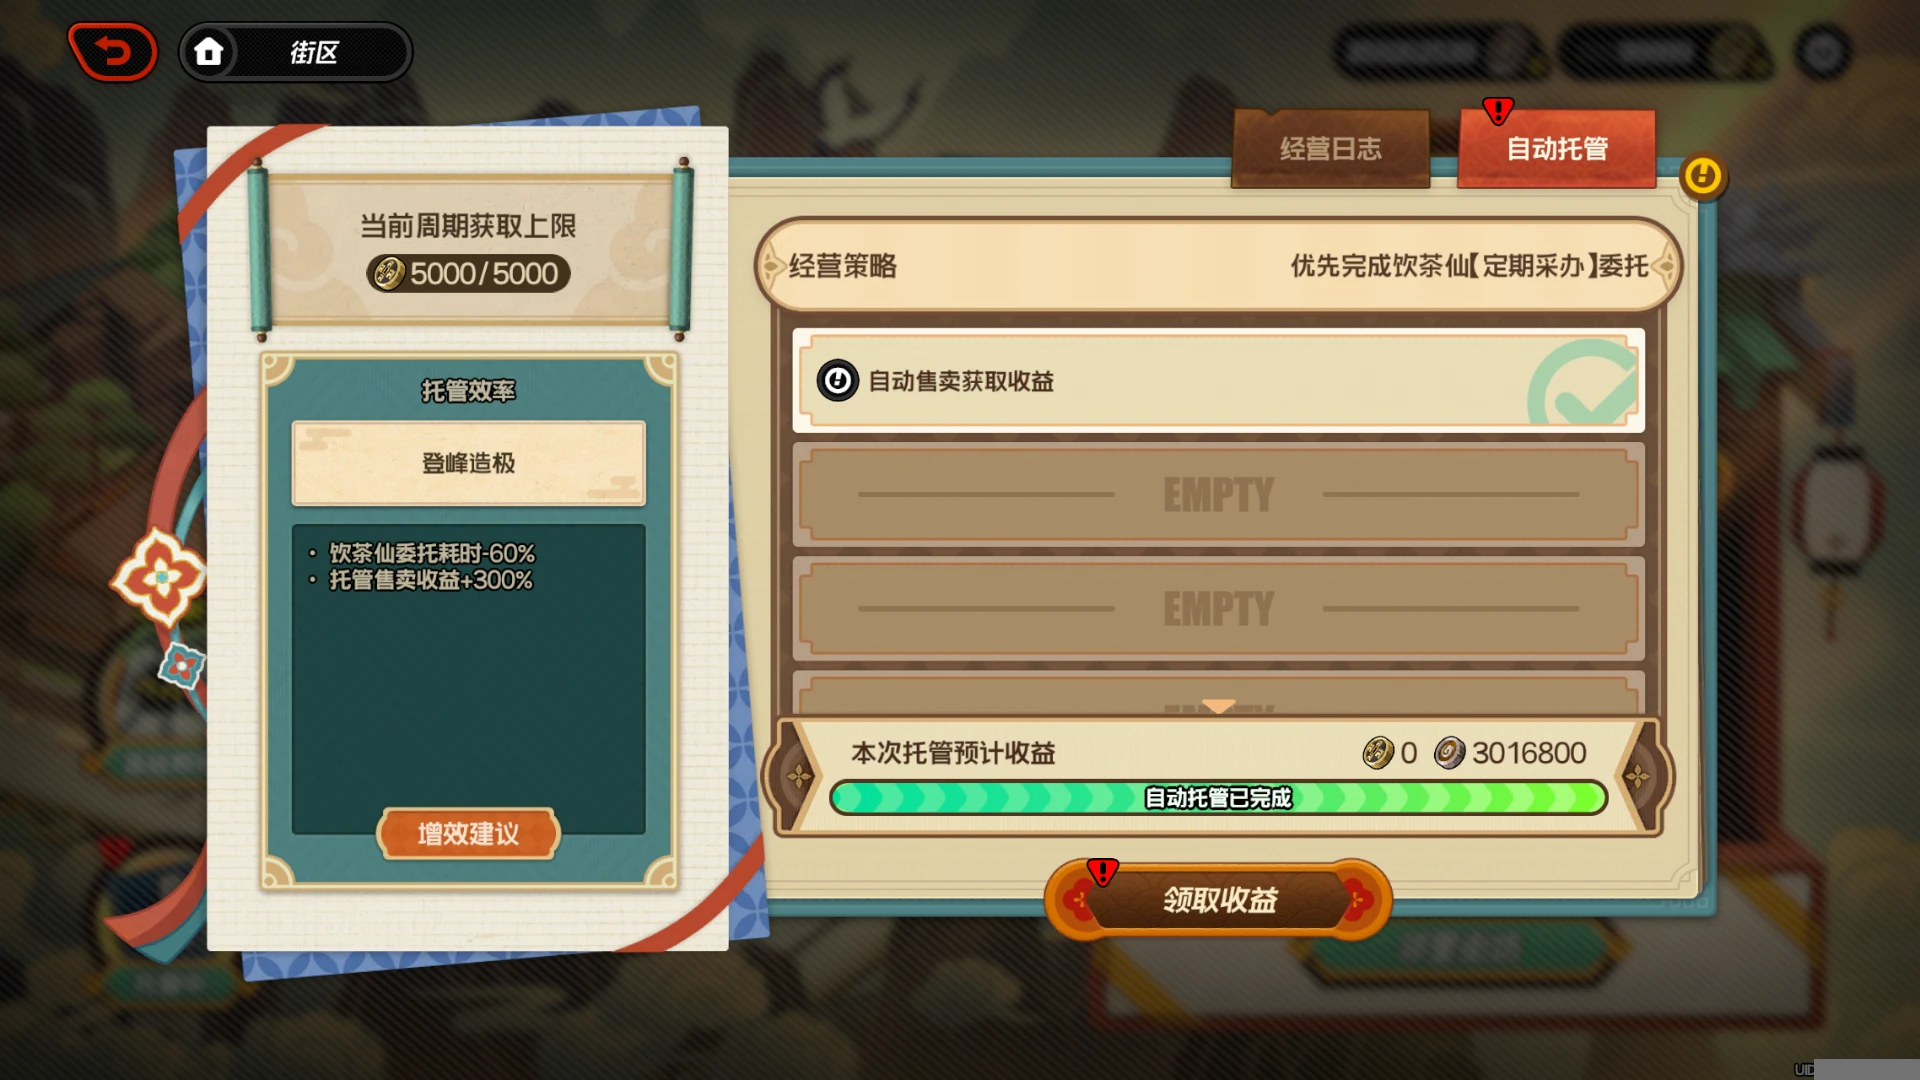
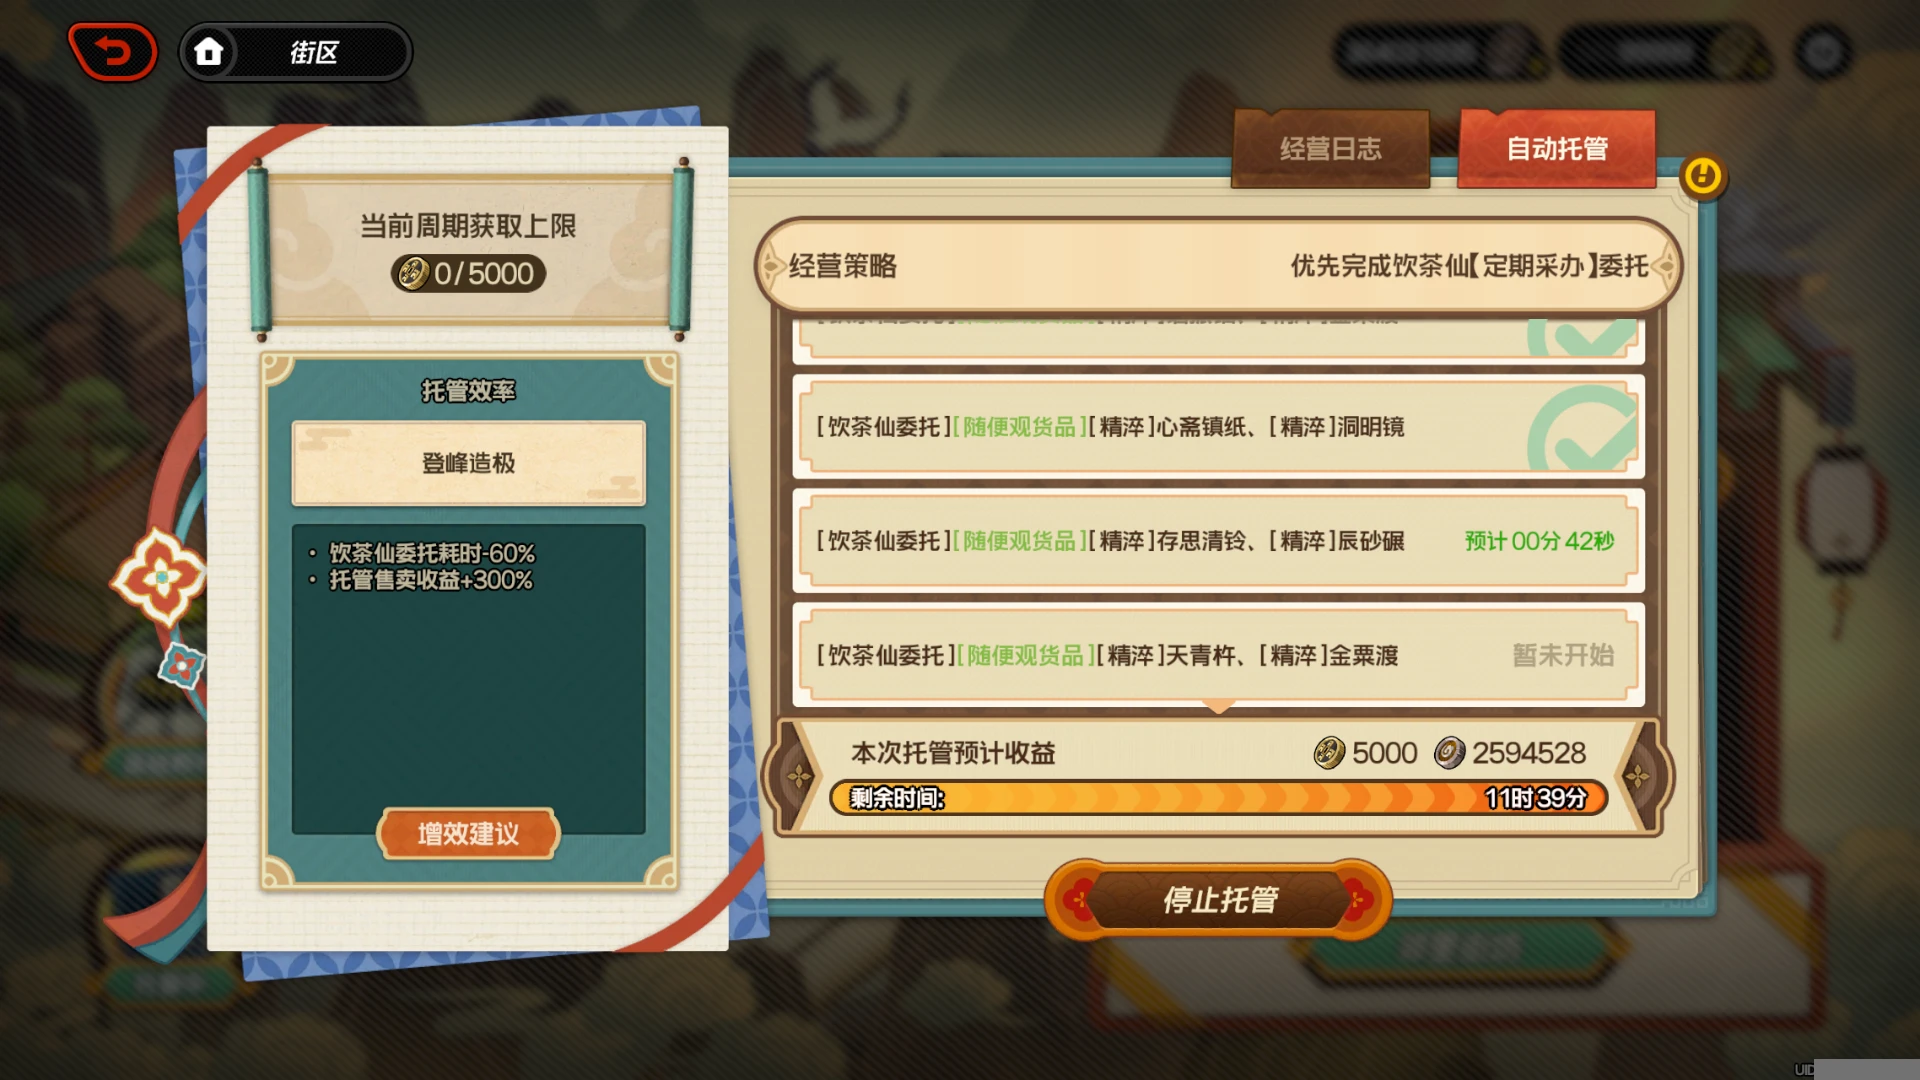
test: 随便观 app 测试(9 用例,含 until 多帧 + 邻里街坊菜单分支)+ fixture 移正位置(screens/)

diff --git a/test/zzz_od/application/suibian_temple/test_suibian_temple_app.py b/test/zzz_od/application/suibian_temple/test_suibian_temple_app.py
@@ -1,0 +1,140 @@
+"""SuibianTempleApp 随便观测试。
+
+覆盖各子 op 的 start node(mock 对应子画面 fixture,断言识别 / 点击):
+- ``check_initial_screen``(随便观-入口,手动态):识别入口 → status=随便观-入口。
+- ``SuibianTempleAdventureSquad.goto_adventure``(随便观-入口):click ``按钮-游历``。
+- ``SuibianTempleCraft.goto_craft``(随便观-制造坊):status=随便观-制造坊。
+- ``SuibianTempleSalesStall.goto_sales_stall``(随便观-售卖铺):status=随便观-售卖铺。
+- ``SuibianTempleYumChaSin.goto_yum_cha_sin``(随便观-饮茶仙):status=随便观-饮茶仙。
+- ``SuibianTempleBooBox.goto_boo_box``(随便观-邦巢):status=随便观-邦巢。
+- ``SuibianTempleGoodGoods.goto_linli_jiefang``(好物铺,已在邻里街坊):OCR「好物铺」→ status=已在邻里街坊-进入好物铺。
+- ``handle_pawnshop``:德丰大押代码未开启 → status=未开启(不需 mock)。
+
+未覆盖(留标记,见 `随便观.md` 备注):
+- ``Transport`` / interact 狮耶 / move:run_operation Transport + controller interact(朝向 + 时机,手动难复现)。
+- ``SuibianTempleAutoManage``(自动托管/经营日志画面无独立 screen_info,误匹配委托助手;且 ``check_and_stop_hosting`` 循环 click 停止托管/开始托管,单帧 mock 难覆盖完整停止→重启流程)。
+- 经营总览(无 screen_info)。
+- 各子 op 的操作 node(收获/派遣/制造/聘用 等,需多态 fixture + 中间状态)。
+
+fixture(`screens/随便观/`):入口-手动态 / 入口-自动托管中 / 自动托管 / 游历 / 制造坊 / 售卖铺 /
+饮茶仙 / 邦巢 / 德丰大押 / 好物铺 / 经营总览(11 张,实拍归档)。
+
+注:各 ``goto_X`` 的 ``check_and_update_current_screen`` 命中对应 screen → ``round_success(status=screen_name)``。
+"""
+from test.conftest import TestContext
+from zzz_od.application.suibian_temple.suibian_temple_app import SuibianTempleApp
+from zzz_od.application.suibian_temple.operations.suibian_temple_adventure_squad import (
+    SuibianTempleAdventureSquad,
+)
+from zzz_od.application.suibian_temple.operations.suibian_temple_boo_box import (
+    SuibianTempleBooBox,
+)
+from zzz_od.application.suibian_temple.operations.suibian_temple_craft import (
+    SuibianTempleCraft,
+)
+from zzz_od.application.suibian_temple.operations.suibian_temple_good_goods import (
+    SuibianTempleGoodGoods,
+)
+from zzz_od.application.suibian_temple.operations.suibian_temple_sales_stall import (
+    SuibianTempleSalesStall,
+)
+from zzz_od.application.suibian_temple.operations.suibian_temple_yum_cha_sin import (
+    SuibianTempleYumChaSin,
+)
+
+
+class TestSuibianTempleApp:
+    """随便观 app 测试。"""
+
+    def _mock(self, test_context: TestContext, state: str) -> None:
+        """读 ``screens/随便观/<state>.webp`` 设为 controller 下一帧。"""
+        test_context.mock_screen('随便观', state)
+
+    def test_check_initial_screen_in_temple(self, test_context: TestContext) -> None:
+        """随便观-入口(手动态)→ check_initial_screen → status=随便观-入口。"""
+        self._mock(test_context, '入口-手动态')
+        app = SuibianTempleApp(test_context)
+        app.screenshot()
+        result = app.check_initial_screen()
+        assert result.status == '随便观-入口', '应识别已在随便观-入口'
+
+    def test_goto_adventure(self, test_context: TestContext) -> None:
+        """随便观-入口 → click 按钮-游历 → 进游历画面(``until_not_find_all`` 两轮验证)。
+
+        ``goto_adventure`` 用 ``round_by_find_and_click_area`` + ``until_not_find_all``
+        (click 后等画面变游历、按钮-游历消失)。``until`` 用 ``last_screenshot`` 验证 +
+        ``node_clicked`` 标志,需**两轮** —— 同一 op 实例手动连续调 ``goto_adventure``(不经 runner,
+        ``node_clicked`` 保持,``_reset_status_for_new_node`` 只在 runner 进新 node 时才 reset):
+        - 第 1 轮(``node_clicked=False``):mock 入口-手动态 → click 按钮-游历 → ``round_wait``。
+        - 第 2 轮(``node_clicked=True``):mock 游历 → ``until`` 验证 按钮-游历 消失 → ``round_success``。
+        """
+        op = SuibianTempleAdventureSquad(test_context)
+        # 第 1 轮:入口-手动态 → click 按钮-游历
+        self._mock(test_context, '入口-手动态')
+        op.screenshot()
+        result1 = op.goto_adventure()
+        assert result1.status == '按钮-游历', '第 1 轮应识别 按钮-游历 并 click(round_wait)'
+        # 第 2 轮:游历画面 → 按钮-游历消失 → round_success
+        self._mock(test_context, '游历')
+        op.screenshot()
+        result2 = op.goto_adventure()
+        assert result2.is_success, 'click 后进游历画面,按钮-游历消失,应 round_success'
+
+    def test_goto_craft(self, test_context: TestContext) -> None:
+        """随便观-制造坊 → craft goto_craft → status=随便观-制造坊。"""
+        self._mock(test_context, '制造坊')
+        op = SuibianTempleCraft(test_context)
+        op.screenshot()
+        result = op.goto_craft()
+        assert result.status == '随便观-制造坊', '应识别已在随便观-制造坊'
+
+    def test_goto_sales_stall(self, test_context: TestContext) -> None:
+        """随便观-售卖铺 → sales_stall goto_sales_stall → status=随便观-售卖铺。"""
+        self._mock(test_context, '售卖铺')
+        op = SuibianTempleSalesStall(test_context)
+        op.screenshot()
+        result = op.goto_sales_stall()
+        assert result.status == '随便观-售卖铺', '应识别已在随便观-售卖铺'
+
+    def test_goto_yum_cha_sin(self, test_context: TestContext) -> None:
+        """随便观-饮茶仙 → yum_cha_sin goto_yum_cha_sin → status=随便观-饮茶仙。"""
+        self._mock(test_context, '饮茶仙')
+        op = SuibianTempleYumChaSin(test_context)
+        op.screenshot()
+        result = op.goto_yum_cha_sin()
+        assert result.status == '随便观-饮茶仙', '应识别已在随便观-饮茶仙'
+
+    def test_goto_boo_box(self, test_context: TestContext) -> None:
+        """随便观-邦巢 → boo_box goto_boo_box → status=随便观-邦巢。"""
+        self._mock(test_context, '邦巢')
+        op = SuibianTempleBooBox(test_context)
+        op.screenshot()
+        result = op.goto_boo_box()
+        assert result.status == '随便观-邦巢', '应识别已在随便观-邦巢'
+
+    def test_goto_good_goods_click_linli(self, test_context: TestContext) -> None:
+        """入口(手动态,OCR「邻里街坊」)→ good_goods goto_linli_jiefang → click 邻里街坊 → round_wait。"""
+        self._mock(test_context, '入口-手动态')
+        op = SuibianTempleGoodGoods(test_context)
+        op.screenshot()
+        result = op.goto_linli_jiefang()
+        assert result.status == '邻里街坊', '入口应识别 邻里街坊 并点击'
+
+    def test_goto_good_goods_in_menu(self, test_context: TestContext) -> None:
+        """邻里街坊菜单(OCR「好物铺」选项)→ good_goods goto_linli_jiefang → round_success(已在邻里街坊-进入好物铺)。
+
+        注:「好物铺」检测的是邻里街坊**菜单的选项文字**(普通文字,OCR 可识),不是好物铺画面的
+        艺术字标题 logo(那个 OCR 只识出「铺」单字)。app 靠菜单选项,不靠画面标题。
+        """
+        self._mock(test_context, '邻里街坊菜单')
+        op = SuibianTempleGoodGoods(test_context)
+        op.screenshot()
+        result = op.goto_linli_jiefang()
+        assert result.is_success, '邻里街坊菜单应 OCR 到「好物铺」选项 → round_success'
+        assert result.status == '已在邻里街坊-进入好物铺'
+
+    def test_handle_pawnshop_disabled(self, test_context: TestContext) -> None:
+        """德丰大押代码未开启 → handle_pawnshop → status=未开启(不需 mock)。"""
+        app = SuibianTempleApp(test_context)
+        result = app.handle_pawnshop()
+        assert result.status == '未开启', '德丰大押代码未开启,应直接返回未开启'